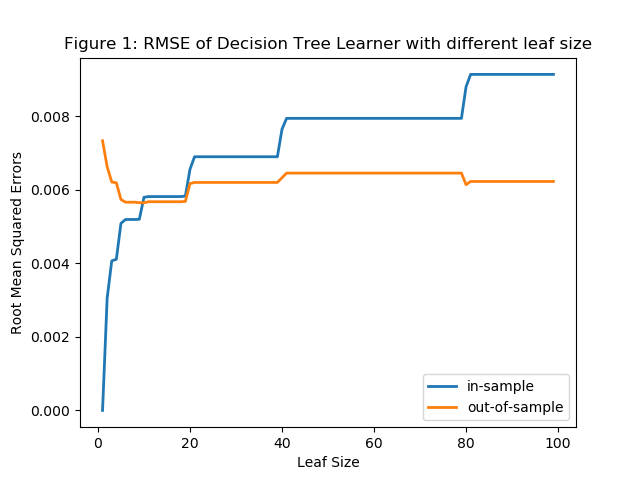
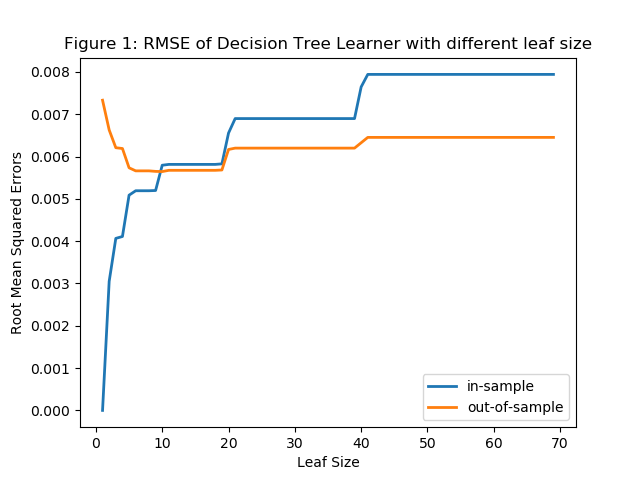
commit

diff --git a/assess_learners/testlearner.py b/assess_learners/testlearner.py
@@ -69,7 +69,7 @@ if __name__ == "__main__":
     rmse_in_sample = []
     rmse_out_of_sample = []
 
-    for i in range(1, 100):
+    for i in range(1, 70):
         learner = dt.DTLearner(leaf_size=i, verbose=False)  # constructor
         learner.add_evidence(train_x, train_y)  # train it
         # evaluate in sample
@@ -80,7 +80,7 @@ if __name__ == "__main__":
         pred_y = learner.query(test_x)  # get the predictions
         rmse_out_of_sample.append(math.sqrt(((test_y - pred_y) ** 2).sum() / test_y.shape[0]))
 
-    x = range(1, 100)
+    x = range(1, 70)
     plt.figure(1)
     plt.plot(x, rmse_in_sample, label="in-sample", linewidth=2.0)
     plt.plot(x, rmse_out_of_sample, label="out-of-sample", linewidth=2.0)
@@ -95,7 +95,7 @@ if __name__ == "__main__":
     rmse_in_sample = []
     rmse_out_of_sample = []
 
-    for i in range(1, 30):
+    for i in range(1, 70):
         learner = bl.BagLearner(learner = dt.DTLearner, kwargs = {"leaf_size":i}, bags = 20, boost = False, verbose = False)
         learner.add_evidence(train_x, train_y)  # train it
         # evaluate in sample
@@ -106,14 +106,14 @@ if __name__ == "__main__":
         pred_y = learner.query(test_x)  # get the predictions
         rmse_out_of_sample.append(math.sqrt(((test_y - pred_y) ** 2).sum() / test_y.shape[0]))
 
-    x = range(1, 30)
+    x = range(1, 70)
     plt.figure(2)
     plt.plot(x, rmse_in_sample, label="in-sample", linewidth=2.0)
     plt.plot(x, rmse_out_of_sample, label="out-of-sample", linewidth=2.0)
     plt.xlabel("Leaf Size")
     plt.ylabel("Root Mean Squared Errors")
     plt.legend(loc="lower right")
-    plt.title("Figure 2: RMSE of Bagging with Decision Tree Learner with different leaf size (20 bags)")
+    plt.title("Figure 2:\nRMSE of Bagging with Decision Tree Learner with different leaf size \n(20 bags)")
     plt.savefig('images/Exp2_fig2.png')
     plt.close()
   		  	   		  	  			  		 			     			  	 

diff --git a/assess_learners/BagLearner.py b/assess_learners/BagLearner.py
@@ -67,7 +67,6 @@ class BagLearner(object):
             choice = np.random.choice(rows, rows,replace=True)
             bag_data_x = data_x[choice]
             bag_data_y = data_y[choice]
-            print(len(bag_data_y))
             self.learners[i].add_evidence(bag_data_x, bag_data_y)
   		  	   		  	  			  		 			     			  	 
     def query(self, points):  		  	   		  	  			  		 			     			  	 
